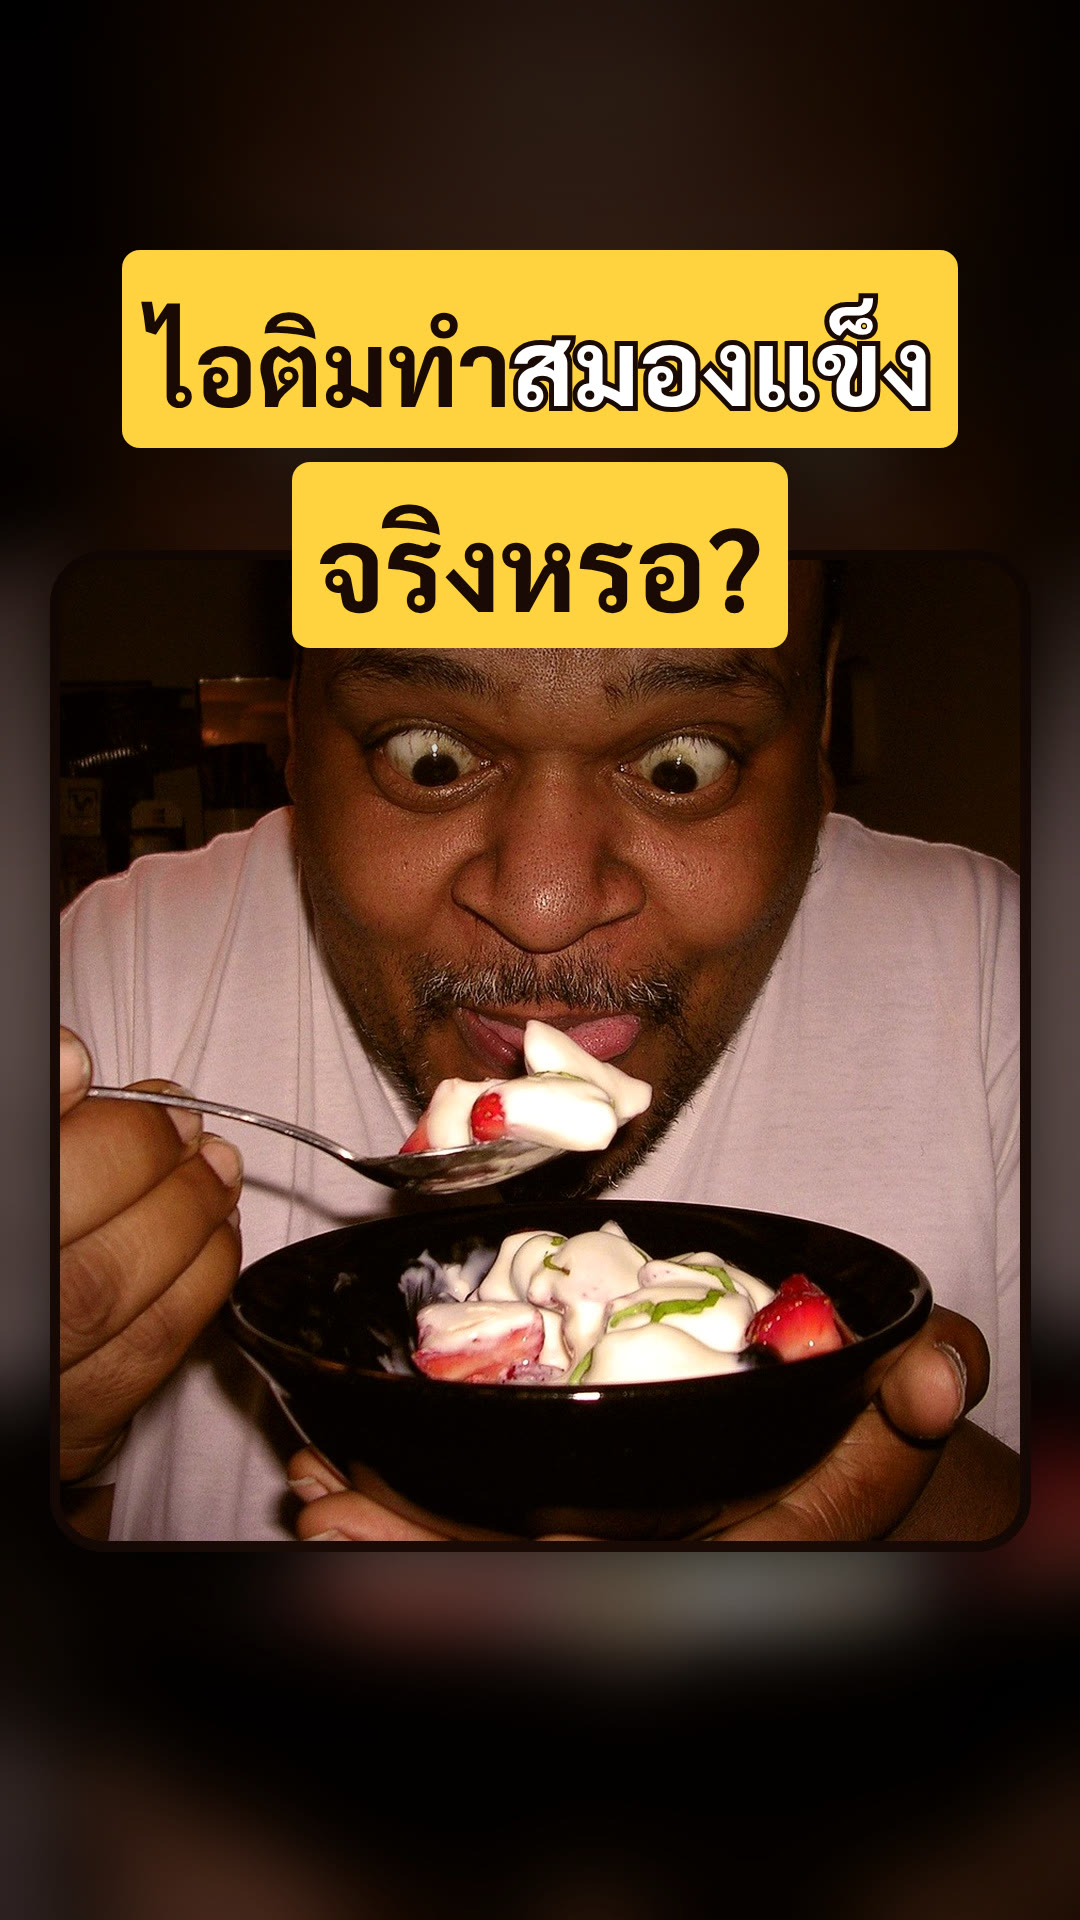
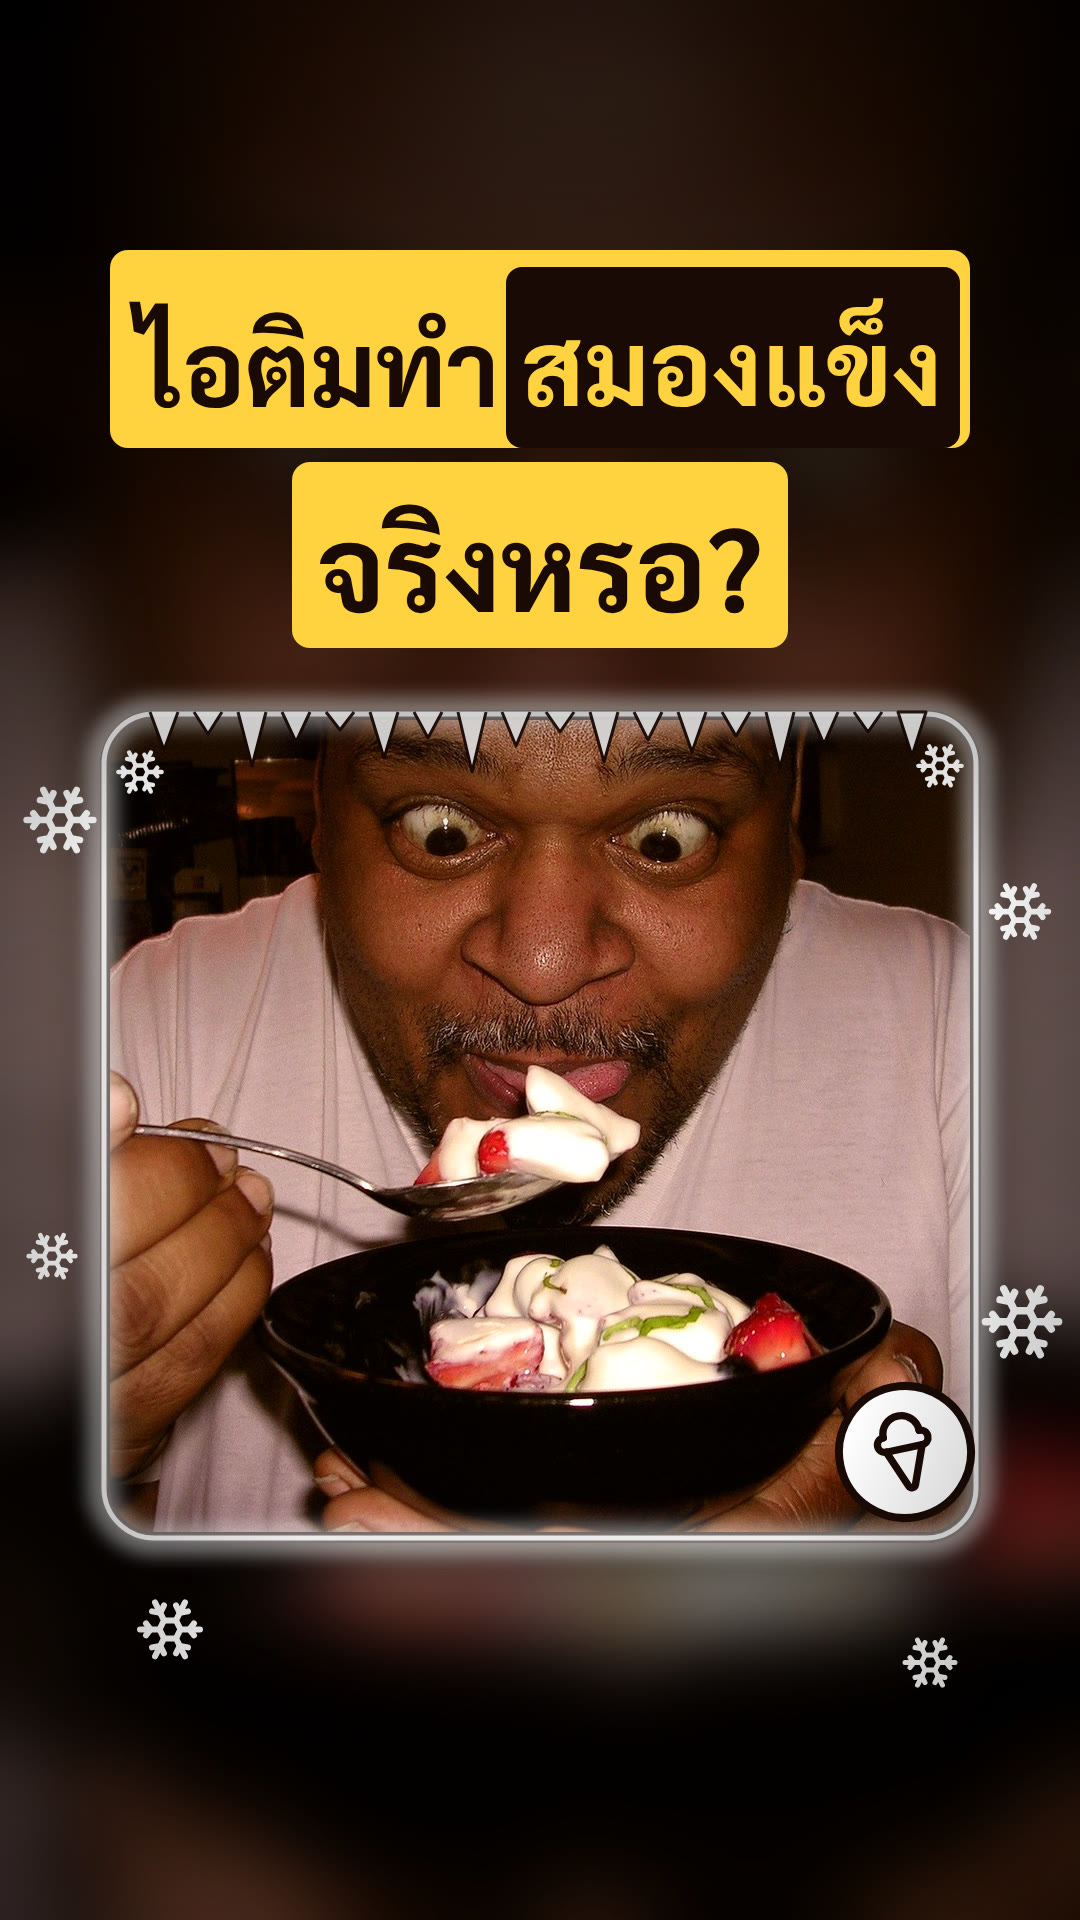
brain-freeze: review round 2 (cold cues on frame 0, title emphasis, hook card below title, study chip, ouch forehead hit)
Claude-Session: https://claude.ai/code/session_016zMkaRCeT8VvViVB3NcnGe

diff --git a/projects/2026-11-24-knowledge-brain-freeze/video/index.html b/projects/2026-11-24-knowledge-brain-freeze/video/index.html
@@ -80,6 +80,12 @@ html,body{width:1080px;height:1920px;overflow:hidden;background:#000}
 .gtx{position:absolute;color:var(--text);font-weight:700;text-align:center;white-space:nowrap;line-height:1.35;-webkit-text-stroke:10px var(--ink);paint-order:stroke fill}
 .gtx em{font-style:normal;color:var(--accent)}
 .gic{position:absolute;color:var(--accent);overflow:visible}
+/* review round 2: "สมองแข็ง" = the loudest word of the frame-0 title (ink plate, accent letters) */
+.op-midstory #title .tl em{color:var(--accent);background:var(--ink);-webkit-text-stroke:0;border-radius:16px;padding-left:16px;padding-right:18px;margin:0 -16px 0 6px}
+/* frame-0 cold cues (cloned into the hook + loop pictures so they follow the push) and the ouch forehead hit */
+.hkfx,.okfx{position:absolute;left:0;top:0;width:1080px;height:1920px;overflow:visible;pointer-events:none}
+#xp-chip{position:absolute;left:80px;top:250px;max-width:800px;z-index:55;height:84px;padding:0 30px;border-radius:44px;background:var(--panel);
+  color:var(--text);font-weight:700;font-size:44px;line-height:84px;white-space:nowrap;box-shadow:0 0 0 6px var(--accent),0 14px 34px rgba(0,0,0,.45);opacity:0;transform-origin:0 50%}
 </style></head><body>
 <div id="root" class="cap-pop op-midstory cv-stack" data-composition-id="main" data-start="0" data-duration="30.4" data-width="1080" data-height="1920"
  data-motion-blur="on" data-motion-blur-events="on">
@@ -166,7 +172,36 @@ html,body{width:1080px;height:1920px;overflow:hidden;background:#000}
 </div>
 </div>
 <!-- EPISODE GRAPHICS: editor adds the episode's own layers here (charts, icons, cards); fill #g-<shot id> slots -->
+<svg width="0" height="0" style="position:absolute" aria-hidden="true"><defs>
+ <filter id="hk-soft" x="-10%" y="-10%" width="120%" height="120%"><feGaussianBlur stdDeviation="9"/></filter></defs></svg>
 <div id="gx-store" style="display:none">
+ <svg class="hkfx" id="hk-src" viewBox="0 0 1080 1920">
+  <rect class="hk-glow" x="102" y="712" width="876" height="828" rx="52" fill="none" stroke="var(--text)" stroke-width="30" filter="url(#hk-soft)" opacity=".55"/>
+  <rect x="104" y="714" width="872" height="824" rx="50" fill="none" stroke="var(--text)" stroke-width="5" opacity=".85"/>
+  <path d="M150,712L164,750L178,712M194,712L208,734L222,712M238,712L252,766L266,712M282,712L296,742L310,712M326,712L340,730L354,712M370,712L384,758L398,712M414,712L428,738L442,712M458,712L472,772L486,712M502,712L516,746L530,712M546,712L560,732L574,712M590,712L604,762L618,712M634,712L648,740L662,712M678,712L692,752L706,712M722,712L736,736L750,712M766,712L780,768L794,712M810,712L824,744L838,712M854,712L868,732L882,712M898,712L912,756L926,712Z" fill="var(--text)" opacity=".92" stroke="var(--ink)" stroke-width="3" stroke-linejoin="round"/>
+  <g style="color:var(--text)">
+   <use class="hk-fl" href="#ic-snowflake" x="-40" y="-40" width="80" height="80" data-x="60" data-y="820" data-r="1"/>
+   <use class="hk-fl" href="#ic-snowflake" x="-34" y="-34" width="68" height="68" data-x="1020" data-y="900" data-r="-1"/>
+   <use class="hk-fl" href="#ic-snowflake" x="-28" y="-28" width="56" height="56" data-x="52" data-y="1250" data-r="-2"/>
+   <use class="hk-fl" href="#ic-snowflake" x="-44" y="-44" width="88" height="88" data-x="1022" data-y="1330" data-r="2"/>
+   <use class="hk-fl" href="#ic-snowflake" x="-36" y="-36" width="72" height="72" data-x="170" data-y="1640" data-r="1"/>
+   <use class="hk-fl" href="#ic-snowflake" x="-30" y="-30" width="60" height="60" data-x="930" data-y="1660" data-r="-1"/>
+   <use class="hk-fl" href="#ic-snowflake" x="-26" y="-26" width="52" height="52" data-x="140" data-y="760" data-r="2"/>
+   <use class="hk-fl" href="#ic-snowflake" x="-26" y="-26" width="52" height="52" data-x="940" data-y="762" data-r="-2"/>
+  </g>
+  <g class="hk-cone" transform="translate(905,1452)">
+   <circle r="66" fill="var(--text)" stroke="var(--ink)" stroke-width="8"/>
+   <use href="#ic-ice-cream-cone" x="-44" y="-44" width="88" height="88" style="color:var(--ink)"/>
+  </g>
+ </svg>
+ <svg class="okfx" id="ok-src" viewBox="0 0 1080 1920">
+  <g class="ok-burst" transform="translate(470,380)">
+   <circle r="95" fill="var(--accent)" opacity=".42"/>
+   <g stroke="var(--accent)" stroke-width="14" stroke-linecap="round">
+    <path d="M0,-115 L0,-170"/><path d="M82,-82 L122,-122"/><path d="M115,0 L170,0"/><path d="M-82,-82 L-122,-122"/><path d="M-115,0 L-170,0"/></g>
+  </g>
+  <g class="ok-arrow" transform="translate(470,150)"><use href="#ic-arrow-down" x="-70" y="-70" width="140" height="140" style="color:var(--accent)"/></g>
+ </svg>
  <div class="gx" id="gx-study">
   <div class="gcard" id="st-card" style="left:190px;top:430px;width:700px;height:640px"></div>
   <svg class="gic" id="st-doc" style="left:330px;top:470px;width:420px;height:420px"><use href="#ic-file-text"/></svg>
@@ -215,6 +250,7 @@ html,body{width:1080px;height:1920px;overflow:hidden;background:#000}
 <div class="tl" style="font-size:104px">ไอติมทำ<em>สมองแข็ง</em></div>
 <div class="tl" style="font-size:118px">จริงหรอ?</div>
 </div>
+<div id="xp-chip">การทดลองหนึ่ง · นักเรียนแคนาดา</div>
 <div id="caps">
   <div id="c0" class="clip cap" data-start="0.08" data-duration="0.6" data-track-index="20"><span style="font-size:96px">ไอติมทำ</span></div>
   <div id="c1" class="clip cap" data-start="0.68" data-duration="0.58" data-track-index="20"><span style="font-size:96px"><em>สมองแข็ง</em></span></div>
@@ -453,7 +489,33 @@ function slots(t){
   const kt=clamp(pop(t,28.84,18,0.5),0,1.2); $('ak-t').style.opacity=f2(clamp(kt*3)); $('ak-t').style.transform=`scale(${kt.toFixed(3)})`;
   const km=clamp(pop(t,29.36,16,0.45),0,1.2); $('ak-msg').style.opacity=f2(clamp(km*3)); $('ak-msg').style.transform=`scale(${km.toFixed(3)}) rotate(${f2(-8+8*km)}deg)`;
 }
-function episode(t){ brain(t); slots(t); }
+// review round 2: frame-0 cold cues. Cloned into the hook AND loop pictures (follow their push / transitions);
+// every motion is periodic in DUR so the last frame = frame 0.
+const HK=[], OK=[];
+['hook','loop'].forEach(id=>{const kb=$('kb-'+id); if(!kb) return; const c=$('hk-src').cloneNode(true); c.removeAttribute('id'); kb.appendChild(c); HK.push(c);});
+(()=>{const kb=$('kb-ouch'); if(!kb) return; const c=$('ok-src').cloneNode(true); c.removeAttribute('id'); kb.appendChild(c); OK.push(c);})();
+function hookFx(t){
+  const w=P2*t/DUR;
+  HK.forEach(c=>{
+    c.querySelectorAll('.hk-fl').forEach((el,k)=>{const x=+el.dataset.x, y=+el.dataset.y+12*Math.sin(3*w+k*1.3), r=360*(+el.dataset.r)*t/DUR;
+      el.setAttribute('transform',`translate(${f2(x)},${f2(y)}) rotate(${f2(r)})`);});
+    c.querySelector('.hk-glow').setAttribute('opacity',f2(0.5+0.12*Math.sin(8*w)));
+    c.querySelector('.hk-cone').setAttribute('transform',`translate(905,1452) rotate(${f2(-12+6*Math.sin(4*w))})`);
+  });
+}
+// ouch: "จี๊ด" 3.26 -> forehead hit + arrow (the picture shows hands on cheeks, the voice says forehead)
+function ouchFx(t){
+  OK.forEach(c=>{const v=t<3.26?0:clamp(pop(t,3.26,18,0.45),0,1.2), fl=0.8+0.2*Math.cos((t-3.26)*18);
+    const b=c.querySelector('.ok-burst'); b.setAttribute('opacity',f2(clamp(v*3)*fl)); b.setAttribute('transform',`translate(470,380) scale(${(v*(0.9+0.1*fl)).toFixed(3)})`);
+    const a=c.querySelector('.ok-arrow'), av=t<3.30?0:clamp(pop(t,3.30,16,0.5),0,1.2);
+    a.setAttribute('opacity',f2(clamp(av*3))); a.setAttribute('transform',`translate(470,${f2(150+14*Math.sin((t-3.3)*10))}) scale(${av.toFixed(3)})`);});
+}
+// twist (18.3-21.8): where the "งานวิจัย" comes from, no numbers (research.md 6a)
+function xpChip(t){
+  const v=win(t,18.30,21.95)?clamp(pop(t,18.30,16,0.6),0,1.15):0, out=1-clamp((t-21.80)/0.15);
+  $('xp-chip').style.opacity=f2(clamp(v*3)*out); $('xp-chip').style.transform=`scale(${(0.6+0.4*v).toFixed(3)})`;
+}
+function episode(t){ brain(t); slots(t); hookFx(t); ouchFx(t); xpChip(t); }
 function render(t){ scenes(t); title(t); captions(t); episode(t); }
 const proxy={_t:0}; Object.defineProperty(proxy,'t',{get(){return this._t;},set(v){this._t=v;render(v);}});
 const tl=gsap.timeline({paused:true});

diff --git a/projects/2026-11-24-knowledge-brain-freeze/video/prep_assets.py b/projects/2026-11-24-knowledge-brain-freeze/video/prep_assets.py
@@ -75,8 +75,9 @@ def card(name, src, box, top, width=960, blur_dark=0.55):
     print(name, 'card', box, '->', width, 'x', h, 'at Y', top, '-', top + h)
 
 
-# hook: face + spoon. crop x 190-1090, y 40-960 -> 960x981 card at Y 560: eyes ~Y 760, mouth + spoon ~Y 1020-1150
-card('hook', 'pixabay-481425.jpg', (190, 40, 1090, 960), 560)
+# hook (review round 2): card starts BELOW the title (Y 720 > title end ~700) so the plate never covers his forehead.
+# crop x 190-1090, y 110-960 -> 860x812 card at Y 720-1532: forehead ~Y 760-830, eyes ~Y 835, mouth + spoon ~Y 1080-1200
+card('hook', 'pixabay-481425.jpg', (190, 110, 1090, 960), 720, width=860)
 # gulp: cone at the mouth (right half of the picture)
 card('gulp', 'pixabay-2588541.jpg', (470, 0, 1280, 852), 330)
 print('ok', sorted(p.name for p in OUT.iterdir()))

diff --git a/projects/2026-11-24-knowledge-brain-freeze/editor-notes.md b/projects/2026-11-24-knowledge-brain-freeze/editor-notes.md
@@ -34,3 +34,14 @@
 - render log มี 404 non-blocking 2 ครั้ง (ไม่กระทบภาพ ตรวจเฟรมแล้ว)
 - ไม่ติด rate limit/บล็อก
 - ไอคอน lucide 5 ตัว (file-text ice-cream-cone snowflake stethoscope turtle) อยู่ใน `video/icons/` ของตอนนี้ (ผู้กำกับย้ายออกจาก `assets/vendor/` ร่วม ตามกฎไฟล์ร่วม); build_index สำเนานี้หา icons/ เป็นที่สำรอง — แม่แบบควรมีช่องไอคอนต่อตอน
+
+## รอบแก้ 2 (ผลตรวจอิสระ, 2026-11-24) — ไม่อัดเสียงใหม่, ไม่แตะ templates/
+| ข้อ | แก้ (เฉพาะสำเนา video/) |
+|---|---|
+| 1 เฟรม 0 ไม่สื่อ "เย็น" | ซ้อนบนภาพ hook + loop (clone เข้า `#kb-hook`/`#kb-loop` ให้ตาม push): ฝ้าเรืองขาวรอบการ์ด + น้ำแข็งย้อยขอบบน + เกล็ดหิมะ 8 อัน (lucide snowflake) ทุกการเคลื่อนไหวเป็นคาบของ DUR (หมุน 360°×k/DUR, ลอย sin 3×) เฟรมท้าย = เฟรม 0 (เช็กจาก MP4 แล้ว) |
+| 1 "สมองแข็ง" เด่นสุด | CSS ในสำเนา: คำไฮไลต์ของ opening midstory เป็นป้าย ink ตัว accent (เดิมตัวขาวขอบดำบนเหลือง); ขนาดหัวข้อเดิม 104/118 px, cover_text เดิม, build ผ่าน |
+| 1 กล่องข้อความทับหน้าผาก | การ์ด hook ใหม่ ครอป x 190-1090 y 110-960 กว้าง 860 ที่ Y 720-1532 (ใต้หัวข้อที่จบ ~Y 700) หน้าผาก ~Y 760-830 ตา ~Y 835 |
+| 2 ที่มางานวิจัย | ชิป "การทดลองหนึ่ง · นักเรียนแคนาดา" (research.md 6a, ไม่มีตัวเลข) X 80-~880 Y 250-334 อยู่นอก #stage (ไม่เลื่อนตามช็อต) 18.30-21.95 วิ |
+| 3 ouch ภาพกุมแก้ม | วงจี๊ด + เส้นแตก + ลูกศรชี้ลงที่หน้าผาก (x 470, Y ~380) สี var(--accent) โผล่ตรง "จี๊ด" 3.26 กระพริบถึงจบช็อต |
+| 4 ไอติมดูเหมือนโยเกิร์ต | ป้ายวงกลมไอคอน ice-cream-cone มุมขวาล่างการ์ด (905, 1452) |
+สถานะรอบ 2: pacing OK (WARN reveal 20% ตั้งใจ) | check 0 error (WARN line_unread 21 + safe-zone เดิม) | `renders/brain-freeze-th.mp4` 30.40 วิ, -16.3 LUFS, true peak -5.2 dBFS (วัดจาก MP4), ไม่มีเฟรมดำ | ปกใหม่ = snapshot --at 0 | cues เสียงเดิม
